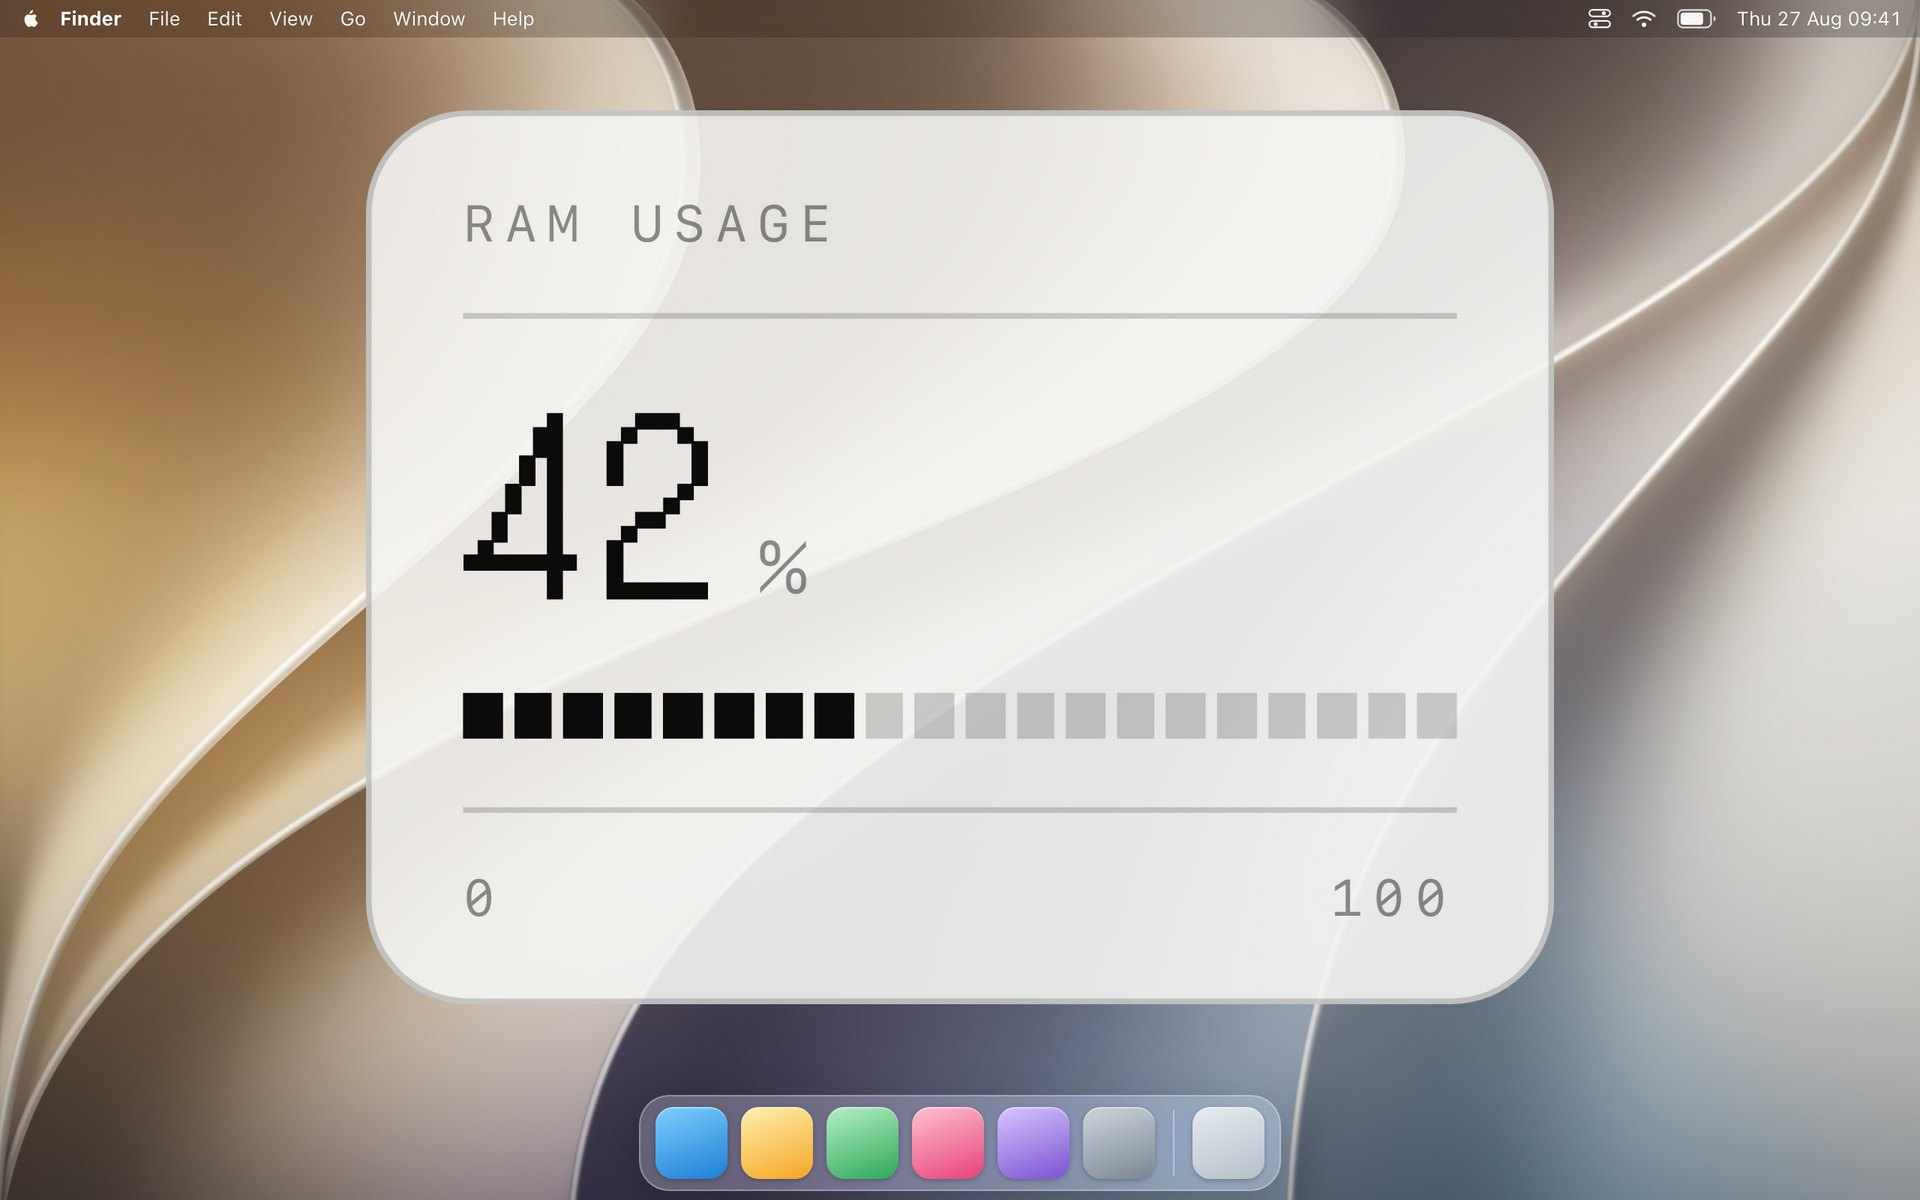
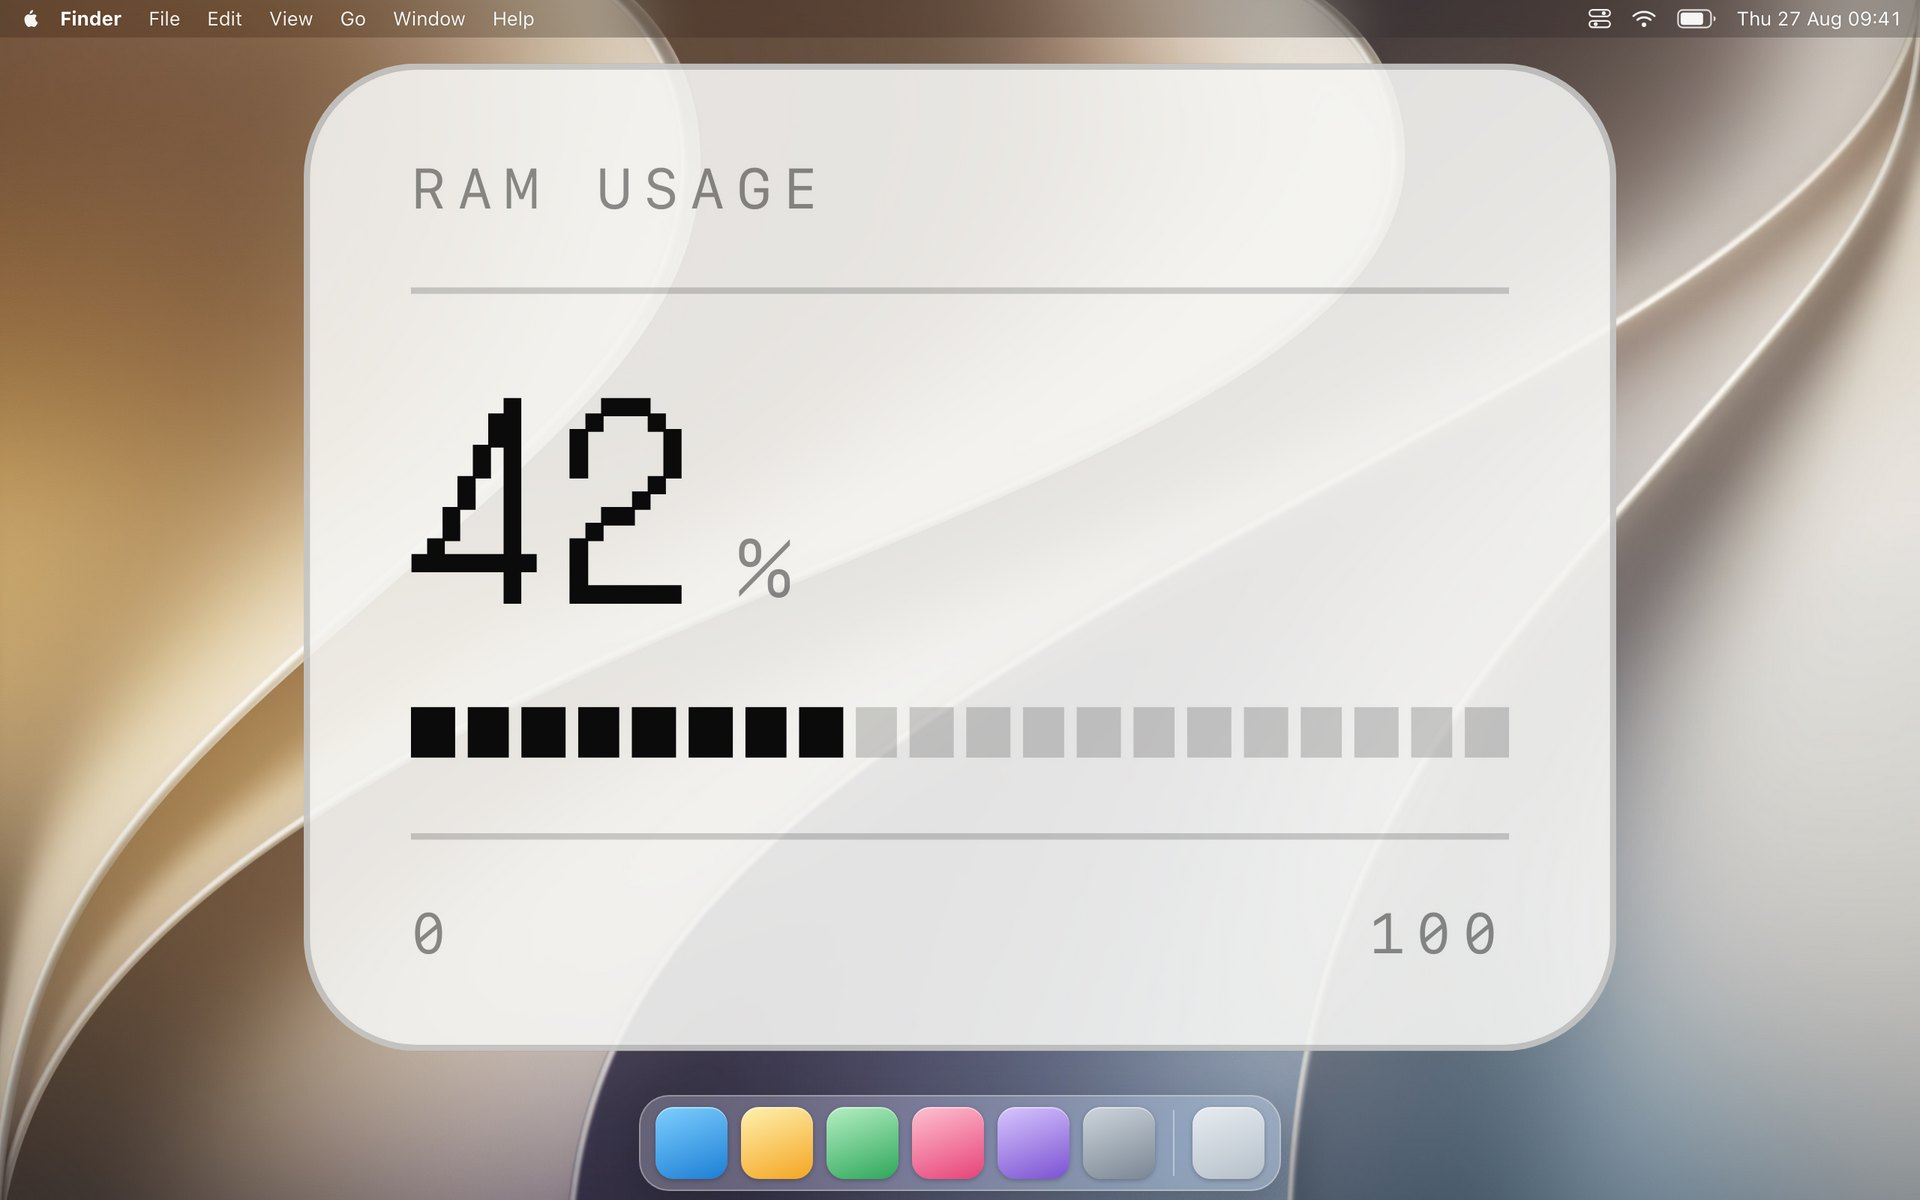
Name the backgrounds for what they are, pick the accent, draw widgets larger
Light, dark, pink, or follow the system. Pink is the light scheme with a modern pink where
the near-white was, so it reads as a light panel rather than as a third kind of thing.

The accent is a colour well now rather than five names, so it can be any colour. What
arrives is checked against a hex pattern before it reaches a stylesheet, and anything else
falls back to red.

A lone widget is drawn across most of the frame instead of most of the middle of it: at the
old fractions there was more wallpaper than panel. Several widgets are drawn half again as
large, which they only fit because a column that runs out of room now starts another to its
left. Stacking until they ran off the bottom was what kept them small.

Every widget stays at 1.0.0.

Changed region(s): [[0.1562, 0.0308, 0.8438, 0.8942]]

diff --git a/widgets/nowplaying/index.tsx b/widgets/nowplaying/index.tsx
@@ -52,24 +52,21 @@ export const className = `
   top: 24px;
 `;
 
-/* The accent a name stands for. A widget is told which one, not which colour, so the
-   names in widget.json and the colours here are the same list. */
-const ACCENTS: Record<string, string> = {
-  red: "#d71921",
-  amber: "#ffb000",
-  green: "#2fbf71",
-  blue: "#4a9eff",
-  violet: "#a678f0",
-};
+const BACKGROUNDS = ["follow", "light", "dark", "pink"];
 
-const BACKGROUNDS = ["auto", "black", "white", "pink"];
-
-/* What to hand the panel: the style it should wear, and nothing at all when it should
-   follow the system, so the stylesheet's own behaviour is left alone. */
+/* The style the panel should wear, and nothing at all when it should follow the system,
+   so the stylesheet's own behaviour is left alone. */
 const surfaceOf = (chosen?: string) =>
-  chosen && chosen !== "auto" && BACKGROUNDS.indexOf(chosen) > -1 ? chosen : undefined;
+  chosen && chosen !== "follow" && BACKGROUNDS.indexOf(chosen) > -1
+    ? chosen
+    : undefined;
 
-const accentOf = (chosen?: string) => ACCENTS[chosen || ""] || ACCENTS.red;
+/* The accent is whatever colour somebody picked, which arrives as #rrggbb or #rrggbbaa.
+   Anything else is ignored rather than let through into a stylesheet. */
+const ACCENT = /^#([0-9a-f]{3}|[0-9a-f]{6}|[0-9a-f]{8})$/i;
+
+const accentOf = (chosen?: string) =>
+  chosen && ACCENT.test(chosen.trim()) ? chosen.trim() : "#d71921";
 
 const Panel = styled("div")`
   --surface: rgba(11, 11, 12, 0.82);
@@ -96,29 +93,28 @@ const Panel = styled("div")`
   }
 
 
-  /* Left to itself the panel follows the system, dark on dark and light on light. Told
-     otherwise, it stays where it is put. */
-  &[data-background="black"] {
+  /* Left to itself the panel follows the system. Told otherwise it stays put. Pink is
+     the light scheme with a modern pink where the near-white was, so it reads as a
+     light panel rather than as a third thing. */
+  &[data-background="dark"] {
     --surface: rgba(11, 11, 12, 0.82);
     --ink: #f4f4f2;
     --dim: rgba(244, 244, 242, 0.42);
     --rule: rgba(244, 244, 242, 0.16);
   }
 
-  &[data-background="white"] {
+  &[data-background="light"] {
     --surface: rgba(244, 244, 242, 0.9);
     --ink: #0b0b0c;
     --dim: rgba(11, 11, 12, 0.45);
     --rule: rgba(11, 11, 12, 0.18);
   }
 
-  /* Ink on pink is nearly black with the pink left in it, so the two belong together
-     rather than looking like one dropped on the other. */
   &[data-background="pink"] {
-    --surface: rgba(242, 182, 199, 0.9);
-    --ink: #2b0f16;
-    --dim: rgba(43, 15, 22, 0.55);
-    --rule: rgba(43, 15, 22, 0.2);
+    --surface: rgba(255, 214, 230, 0.92);
+    --ink: #1f1013;
+    --dim: rgba(31, 16, 19, 0.5);
+    --rule: rgba(31, 16, 19, 0.16);
   }
 
   position: relative;

diff --git a/widgets/clock/index.tsx b/widgets/clock/index.tsx
@@ -60,24 +60,21 @@ const Face = () => (
   `}</style>
 );
 
-/* The accent a name stands for. A widget is told which one, not which colour, so the
-   names in widget.json and the colours here are the same list. */
-const ACCENTS: Record<string, string> = {
-  red: "#d71921",
-  amber: "#ffb000",
-  green: "#2fbf71",
-  blue: "#4a9eff",
-  violet: "#a678f0",
-};
+const BACKGROUNDS = ["follow", "light", "dark", "pink"];
 
-const BACKGROUNDS = ["auto", "black", "white", "pink"];
-
-/* What to hand the panel: the style it should wear, and nothing at all when it should
-   follow the system, so the stylesheet's own behaviour is left alone. */
+/* The style the panel should wear, and nothing at all when it should follow the system,
+   so the stylesheet's own behaviour is left alone. */
 const surfaceOf = (chosen?: string) =>
-  chosen && chosen !== "auto" && BACKGROUNDS.indexOf(chosen) > -1 ? chosen : undefined;
+  chosen && chosen !== "follow" && BACKGROUNDS.indexOf(chosen) > -1
+    ? chosen
+    : undefined;
 
-const accentOf = (chosen?: string) => ACCENTS[chosen || ""] || ACCENTS.red;
+/* The accent is whatever colour somebody picked, which arrives as #rrggbb or #rrggbbaa.
+   Anything else is ignored rather than let through into a stylesheet. */
+const ACCENT = /^#([0-9a-f]{3}|[0-9a-f]{6}|[0-9a-f]{8})$/i;
+
+const accentOf = (chosen?: string) =>
+  chosen && ACCENT.test(chosen.trim()) ? chosen.trim() : "#d71921";
 
 const Panel = styled("div")`
   --surface: rgba(11, 11, 12, 0.82);
@@ -95,29 +92,28 @@ const Panel = styled("div")`
   }
 
 
-  /* Left to itself the panel follows the system, dark on dark and light on light. Told
-     otherwise, it stays where it is put. */
-  &[data-background="black"] {
+  /* Left to itself the panel follows the system. Told otherwise it stays put. Pink is
+     the light scheme with a modern pink where the near-white was, so it reads as a
+     light panel rather than as a third thing. */
+  &[data-background="dark"] {
     --surface: rgba(11, 11, 12, 0.82);
     --ink: #f4f4f2;
     --dim: rgba(244, 244, 242, 0.42);
     --rule: rgba(244, 244, 242, 0.16);
   }
 
-  &[data-background="white"] {
+  &[data-background="light"] {
     --surface: rgba(244, 244, 242, 0.9);
     --ink: #0b0b0c;
     --dim: rgba(11, 11, 12, 0.45);
     --rule: rgba(11, 11, 12, 0.18);
   }
 
-  /* Ink on pink is nearly black with the pink left in it, so the two belong together
-     rather than looking like one dropped on the other. */
   &[data-background="pink"] {
-    --surface: rgba(242, 182, 199, 0.9);
-    --ink: #2b0f16;
-    --dim: rgba(43, 15, 22, 0.55);
-    --rule: rgba(43, 15, 22, 0.2);
+    --surface: rgba(255, 214, 230, 0.92);
+    --ink: #1f1013;
+    --dim: rgba(31, 16, 19, 0.5);
+    --rule: rgba(31, 16, 19, 0.16);
   }
 
   position: relative;

diff --git a/template/screenshot/desktop.html b/template/screenshot/desktop.html
@@ -364,25 +364,42 @@
       // height, and scaling by transform keeps that arithmetic in one place.
       if (arrange === "right" && slots.length) {
         setTimeout(() => {
-          let top = BAR + TOP_INSET;
+          const floor = desktop.clientHeight - DOCK;
+          const ceiling = BAR + TOP_INSET;
+          let top = ceiling;
+          let right = INSET;
+          let column = 0;
 
           slots.forEach((slot) => {
             const box = slot.getBoundingClientRect();
+            const height = box.height * zoom;
+            const width = box.width * zoom;
+
+            /* No room below means another column, to the left of this one. Widgets used
+               to be stacked until they ran off the bottom of the picture, which put a
+               ceiling on how large they could be drawn: three in a column had to be
+               small enough for three. */
+            if (top > ceiling && top + height > floor) {
+              right += column + GAP;
+              top = ceiling;
+              column = 0;
+            }
 
             slot.style.cssText =
               "position: absolute;" +
               "width: fit-content; height: fit-content;" +
-              "right: " + INSET + "px;" +
+              "right: " + Math.round(right) + "px;" +
               "top: " + Math.round(top) + "px;" +
               "transform: scale(" + zoom + ");" +
               "transform-origin: top right;";
 
-            top += box.height * zoom + GAP;
+            top += height + GAP;
+            column = Math.max(column, width);
           });
 
-          const overflow = top - GAP - (desktop.clientHeight - DOCK);
+          const overflow = top - GAP - floor;
           if (overflow > 0) {
-            console.warn("the column is " + Math.round(overflow) + "px too tall");
+            console.warn("the last column is " + Math.round(overflow) + "px too tall");
           }
         }, 700);
       }
@@ -398,9 +415,12 @@
           const box = slot.getBoundingClientRect();
           if (!box.width || !box.height) return;
 
+          /* Most of the frame, not most of the middle of it. A portrait of a widget is
+             for reading the widget, and at the old fractions there was more wallpaper
+             than panel. Enough is left that it still reads as a desktop. */
           const room = {
-            width: desktop.clientWidth * 0.78,
-            height: (desktop.clientHeight - BAR - DOCK) * 0.86,
+            width: desktop.clientWidth * 0.92,
+            height: (desktop.clientHeight - BAR - DOCK) * 0.95,
           };
           const scale = Math.min(room.width / box.width, room.height / box.height);
           if (scale <= 1) return;

diff --git a/widgets/system/index.tsx b/widgets/system/index.tsx
@@ -144,12 +144,14 @@ export const className = `
   top: 24px;
 `;
 
-const BACKGROUNDS = ["auto", "black", "white", "pink"];
+const BACKGROUNDS = ["follow", "light", "dark", "pink"];
 
 /* The style the panel should wear, and nothing at all when it should follow the system,
    so the stylesheet's own behaviour is left alone. */
 const surfaceOf = (chosen?: string) =>
-  chosen && chosen !== "auto" && BACKGROUNDS.indexOf(chosen) > -1 ? chosen : undefined;
+  chosen && chosen !== "follow" && BACKGROUNDS.indexOf(chosen) > -1
+    ? chosen
+    : undefined;
 
 const Panel = styled("div")`
   --surface: rgba(11, 11, 12, 0.82);
@@ -165,29 +167,28 @@ const Panel = styled("div")`
   }
 
 
-  /* Left to itself the panel follows the system, dark on dark and light on light. Told
-     otherwise, it stays where it is put. */
-  &[data-background="black"] {
+  /* Left to itself the panel follows the system. Told otherwise it stays put. Pink is
+     the light scheme with a modern pink where the near-white was, so it reads as a
+     light panel rather than as a third thing. */
+  &[data-background="dark"] {
     --surface: rgba(11, 11, 12, 0.82);
     --ink: #f4f4f2;
     --dim: rgba(244, 244, 242, 0.42);
     --rule: rgba(244, 244, 242, 0.16);
   }
 
-  &[data-background="white"] {
+  &[data-background="light"] {
     --surface: rgba(244, 244, 242, 0.9);
     --ink: #0b0b0c;
     --dim: rgba(11, 11, 12, 0.45);
     --rule: rgba(11, 11, 12, 0.18);
   }
 
-  /* Ink on pink is nearly black with the pink left in it, so the two belong together
-     rather than looking like one dropped on the other. */
   &[data-background="pink"] {
-    --surface: rgba(242, 182, 199, 0.9);
-    --ink: #2b0f16;
-    --dim: rgba(43, 15, 22, 0.55);
-    --rule: rgba(43, 15, 22, 0.2);
+    --surface: rgba(255, 214, 230, 0.92);
+    --ink: #1f1013;
+    --dim: rgba(31, 16, 19, 0.5);
+    --rule: rgba(31, 16, 19, 0.16);
   }
 
   position: relative;

diff --git a/scripts/screenshot.js b/scripts/screenshot.js
@@ -137,7 +137,9 @@ const theme = option('theme', 'light');
 // several widgets are a desktop, and a desktop reads better tidy: down the right,
 // evenly spaced, and a little larger than life so they can be seen
 const arrange = option('arrange', single ? 'own' : 'right');
-const zoom = option('zoom', single ? '1' : '1.25');
+/* Several widgets share the frame, so none of them can fill it, but at life size they
+   are small in a 1280 wide desktop and the picture stops being about them. */
+const zoom = option('zoom', single ? '1' : '1.9');
 
 function defaultSettings(manifest) {
   const values = {};
